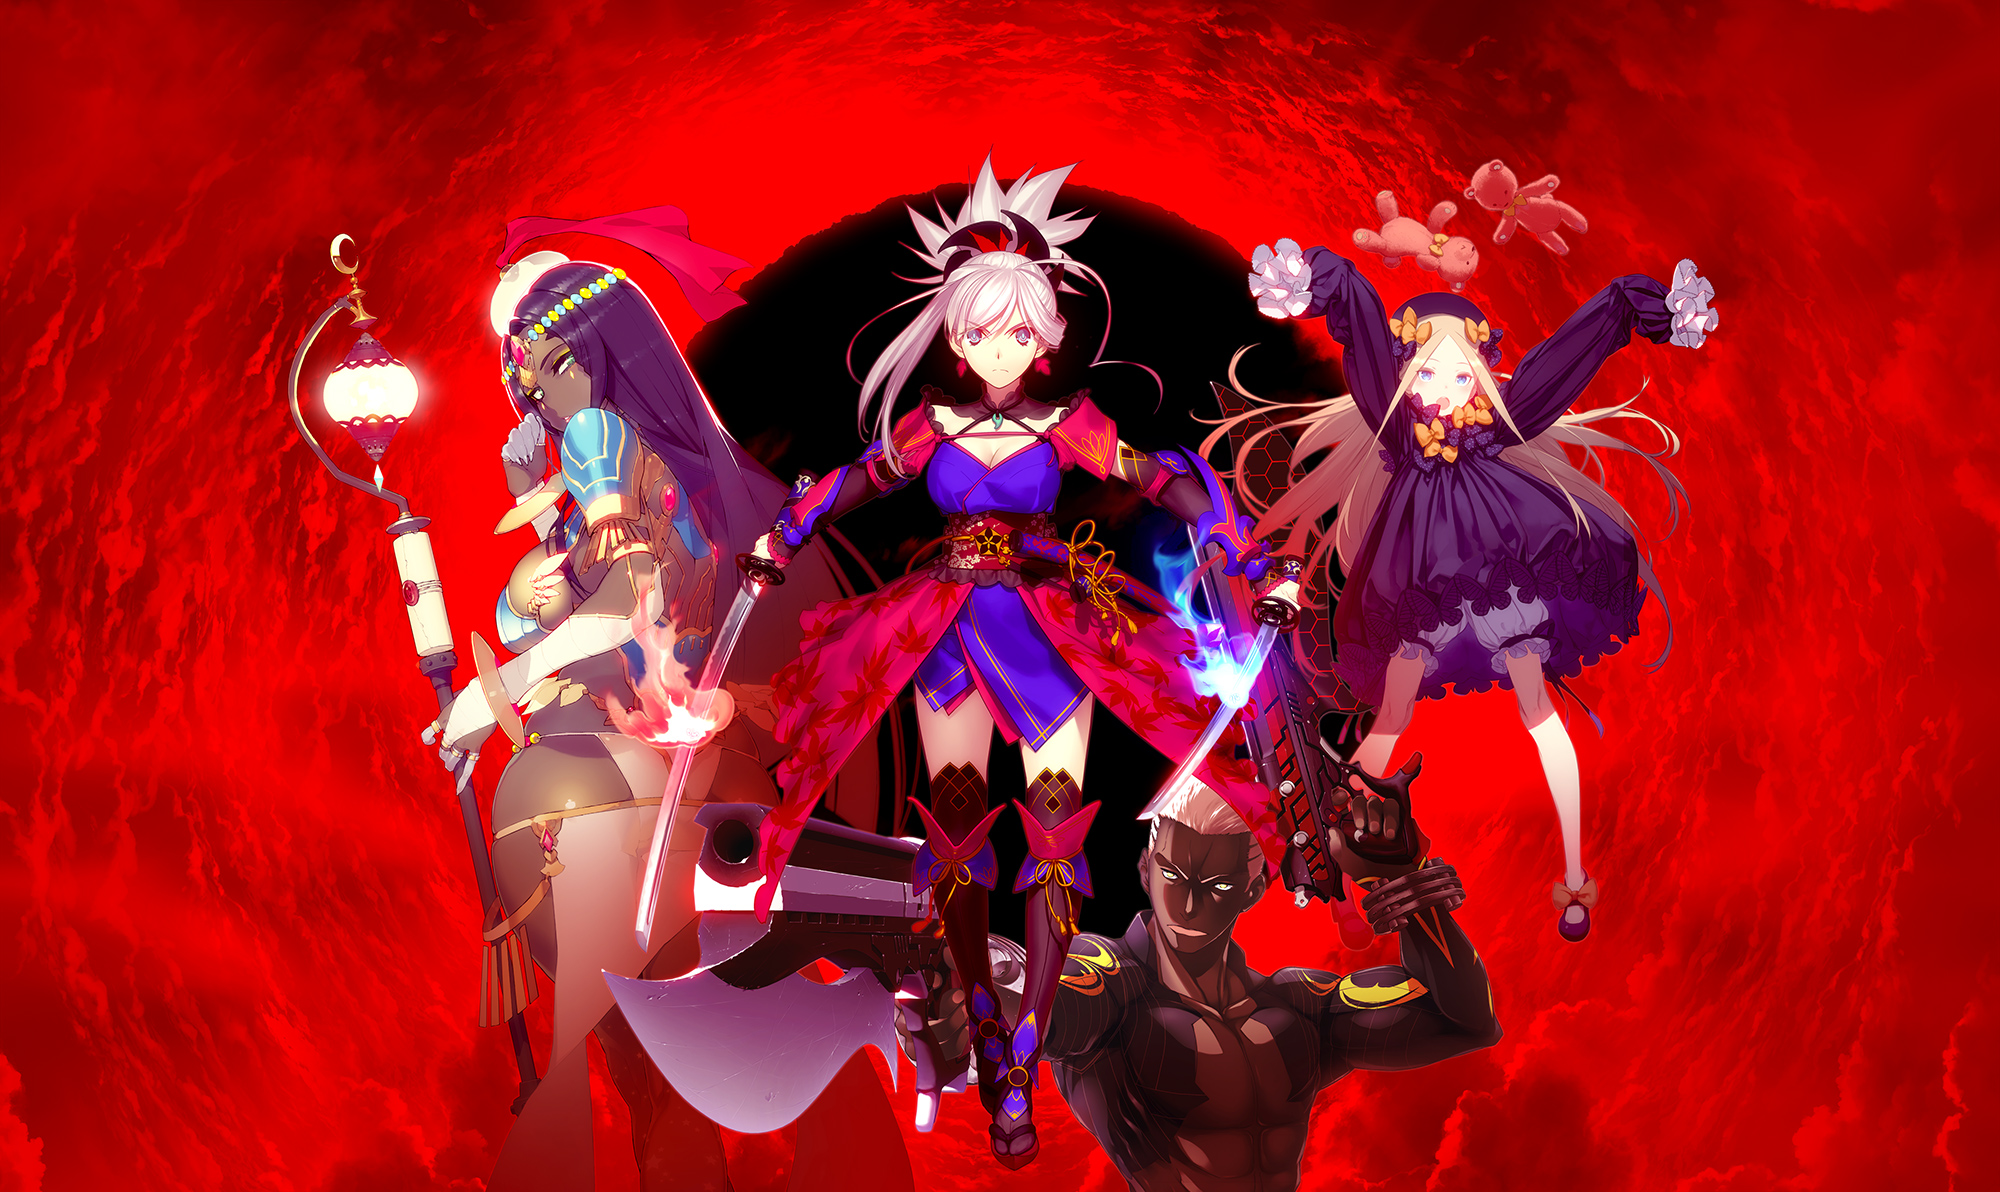
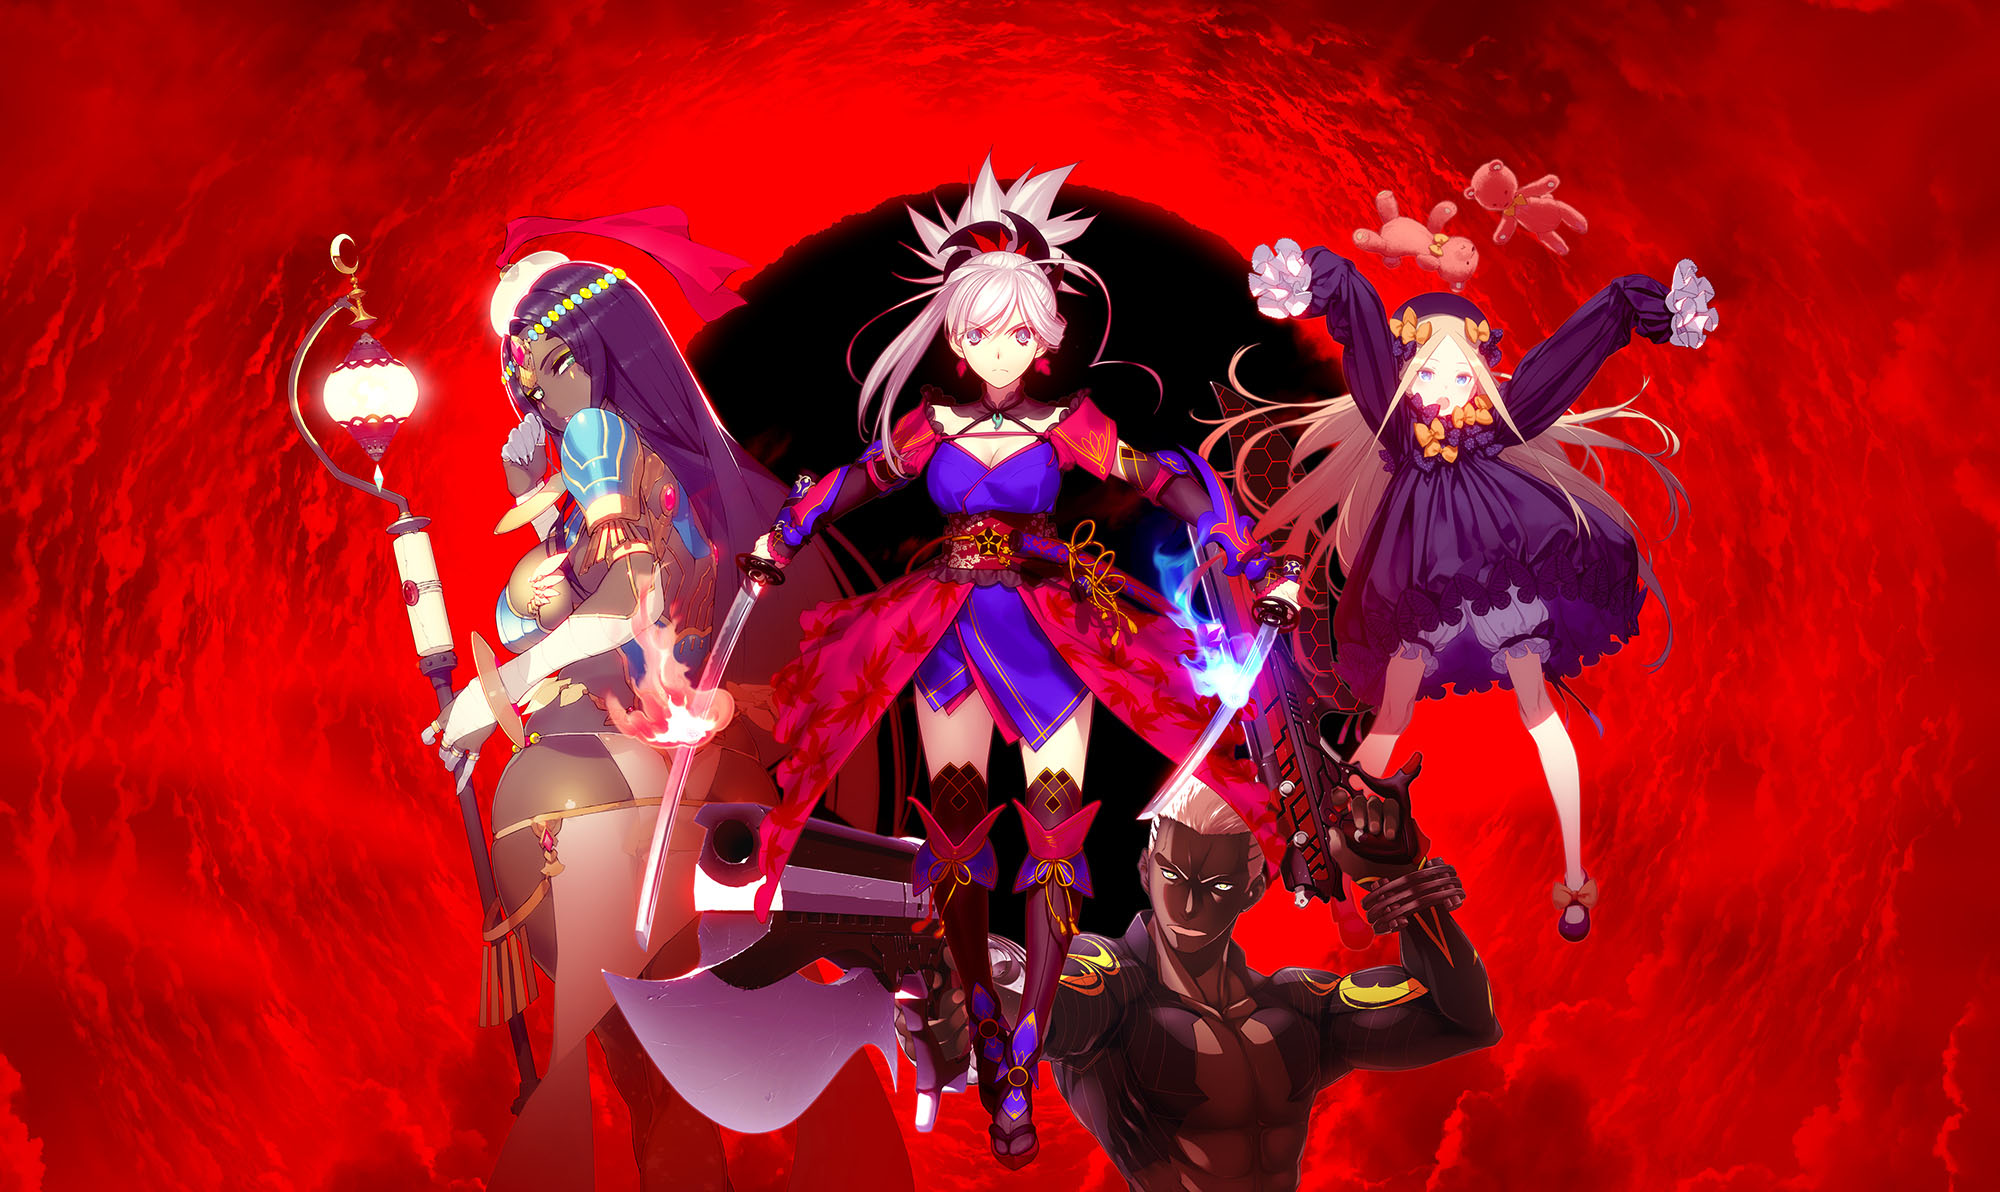
压缩图片提高加载速度 音乐页面变为跳转（不然js无法加载）

diff --git a/index.html b/index.html
@@ -38,8 +38,8 @@
             <a href="/tags/" title="Tags" target="_blank" rel="noopener">Tags</a>
         </li>
         
-        <li class="pview menu-item menu-item-type-post_type menu-item-object-page">
-            <a href="/music/" title="Music" target="_blank" rel="noopener">Music</a>
+        <li class="  menu-item menu-item-type-post_type menu-item-object-page">
+            <a href="https://xuchunlei.top/music/" title="Music" target="_blank" rel="noopener">Music</a>
         </li>
         
         <li class="pview menu-item menu-item-type-post_type menu-item-object-page">

diff --git a/tags/GitHub-Pages/index.html b/tags/GitHub-Pages/index.html
@@ -38,8 +38,8 @@
             <a href="/tags/" title="Tags" target="_blank" rel="noopener">Tags</a>
         </li>
         
-        <li class="pview menu-item menu-item-type-post_type menu-item-object-page">
-            <a href="/music/" title="Music" target="_blank" rel="noopener">Music</a>
+        <li class="  menu-item menu-item-type-post_type menu-item-object-page">
+            <a href="https://xuchunlei.top/music/" title="Music" target="_blank" rel="noopener">Music</a>
         </li>
         
         <li class="pview menu-item menu-item-type-post_type menu-item-object-page">

diff --git a/tags/博客/index.html b/tags/博客/index.html
@@ -38,8 +38,8 @@
             <a href="/tags/" title="Tags" target="_blank" rel="noopener">Tags</a>
         </li>
         
-        <li class="pview menu-item menu-item-type-post_type menu-item-object-page">
-            <a href="/music/" title="Music" target="_blank" rel="noopener">Music</a>
+        <li class="  menu-item menu-item-type-post_type menu-item-object-page">
+            <a href="https://xuchunlei.top/music/" title="Music" target="_blank" rel="noopener">Music</a>
         </li>
         
         <li class="pview menu-item menu-item-type-post_type menu-item-object-page">

diff --git a/tags/随笔/index.html b/tags/随笔/index.html
@@ -38,8 +38,8 @@
             <a href="/tags/" title="Tags" target="_blank" rel="noopener">Tags</a>
         </li>
         
-        <li class="pview menu-item menu-item-type-post_type menu-item-object-page">
-            <a href="/music/" title="Music" target="_blank" rel="noopener">Music</a>
+        <li class="  menu-item menu-item-type-post_type menu-item-object-page">
+            <a href="https://xuchunlei.top/music/" title="Music" target="_blank" rel="noopener">Music</a>
         </li>
         
         <li class="pview menu-item menu-item-type-post_type menu-item-object-page">
